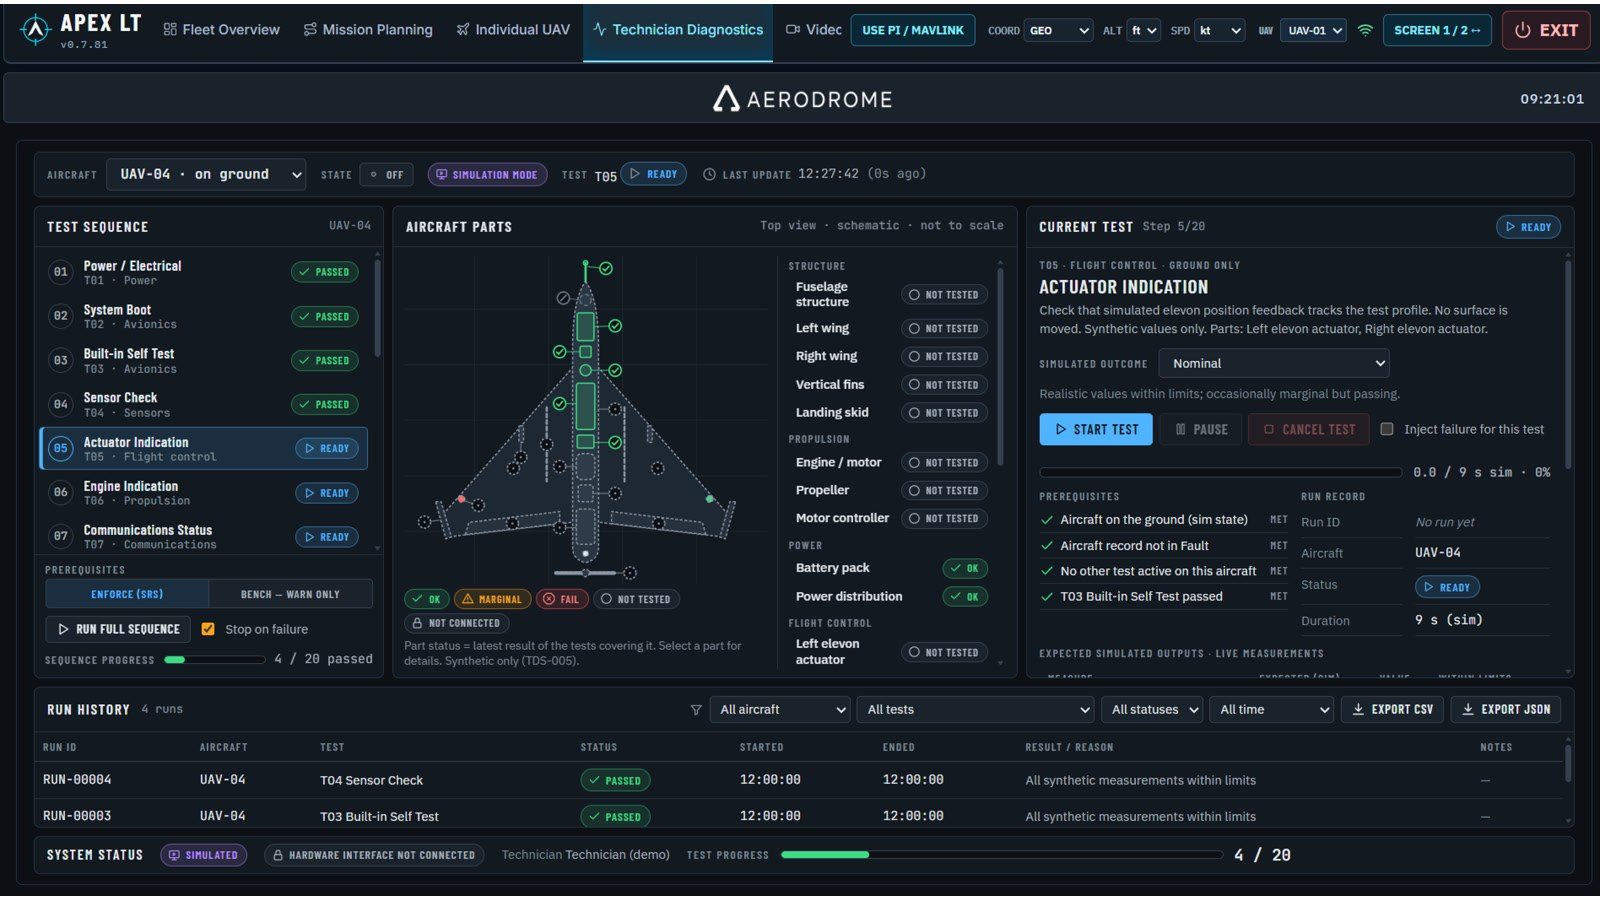
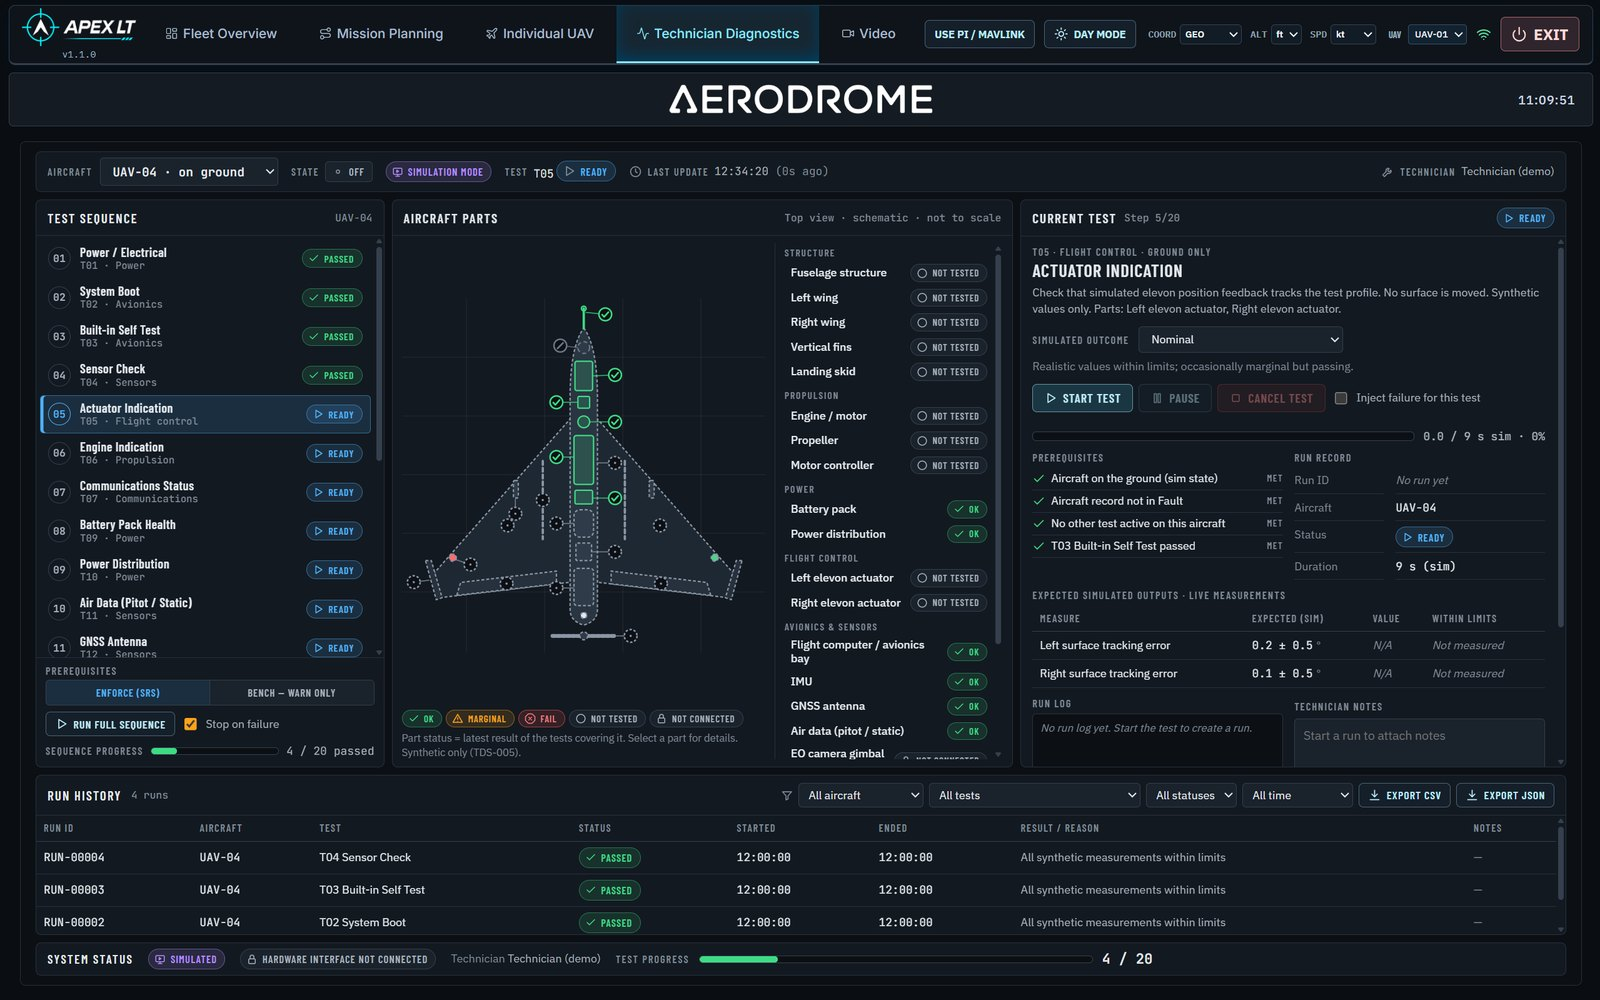
v5: APEX LT workspace pictures replaced with the new screenshots (v1.1.0)
Claude-Session: https://claude.ai/code/session_019uc6bmk95UV7k7Vn7GUmwr

diff --git a/v5/apex-lt/index.html b/v5/apex-lt/index.html
@@ -20,7 +20,7 @@
 <link rel="preload" href="../assets/fonts/chakra-petch-latin-700-normal.woff2" as="font" type="font/woff2" crossorigin>
 <link rel="stylesheet" href="../assets/site.css?v=20261124r">
 <script src="../assets/early.js?v=20261124r"></script>
-<script type="application/ld+json">{"@context": "https://schema.org", "@type": "SoftwareApplication", "name": "APEX LT", "applicationCategory": "Fleet and mission management", "operatingSystem": "Ground station", "description": "APEX LT is the ground platform for Phoenix fleets: fleet overview, mission planning, a single-aircraft view and technician diagnostics in one interface.", "image": "https://aerodrome-group.com/assets/apex-fleet-overview.jpg", "url": "https://aerodrome-group.com/apex-lt/", "publisher": {"@type": "Organization", "name": "Aerodrome Group", "url": "https://aerodrome-group.com/"}}</script>
+<script type="application/ld+json">{"@context": "https://schema.org", "@type": "SoftwareApplication", "name": "APEX LT", "applicationCategory": "Fleet and mission management", "operatingSystem": "Ground station", "description": "APEX LT is the ground platform for Phoenix fleets: fleet overview, mission planning, a single-aircraft view and technician diagnostics in one interface.", "image": "https://aerodrome-group.com/assets/apex-fleet-overview.jpg?v=2", "url": "https://aerodrome-group.com/apex-lt/", "publisher": {"@type": "Organization", "name": "Aerodrome Group", "url": "https://aerodrome-group.com/"}}</script>
 <script type="application/ld+json">{"@context": "https://schema.org", "@type": "BreadcrumbList", "itemListElement": [{"@type": "ListItem", "position": 1, "name": "Home", "item": "https://aerodrome-group.com/"}, {"@type": "ListItem", "position": 2, "name": "APEX LT", "item": "https://aerodrome-group.com/apex-lt/"}]}</script>
 </head>
 <body>
@@ -106,19 +106,19 @@
     </div>
     <div class="apex-rows cards">
       <div class="apex-row">
-        <div class="shot"><img src="../assets/apex-fleet-overview.jpg" alt="APEX LT fleet overview screen: aircraft list, a map with aircraft positions, and details of the selected aircraft" width="1600" height="900" loading="lazy" decoding="async"></div>
+        <div class="shot"><img src="../assets/apex-fleet-overview.jpg?v=2" alt="APEX LT fleet overview screen: aircraft list, a map with aircraft positions, and details of the selected aircraft" width="1600" height="1000" loading="lazy" decoding="async"></div>
         <div class="pt"><p class="eyebrow" style="color:var(--camel)">Operators</p><h3 style="margin-top:12px">Fleet overview</h3><ul class="bullets" style="margin-top:16px"><li>Multi-aircraft fleet overview in a single interface</li><li>Map-based aircraft visualisation</li><li>Centralised status and readiness for every aircraft</li></ul></div>
       </div>
       <div class="apex-row flip">
-        <div class="shot"><img src="../assets/apex-mission-planning.jpg" alt="APEX LT mission planning screen: workflow steps, a route with waypoints on a map, and a waypoint table" width="1600" height="900" loading="lazy" decoding="async"></div>
+        <div class="shot"><img src="../assets/apex-mission-planning.jpg?v=2" alt="APEX LT mission planning screen: workflow steps, a route with waypoints on a map, and a waypoint table" width="1600" height="1000" loading="lazy" decoding="async"></div>
         <div class="pt"><p class="eyebrow" style="color:var(--camel)">Planners</p><h3 style="margin-top:12px">Mission planning</h3><ul class="bullets" style="margin-top:16px"><li>Structured mission-planning workflow, step by step</li><li>Route and waypoint visualisation on the map</li><li>Plan review and validation workflow</li></ul></div>
       </div>
       <div class="apex-row">
-        <div class="shot"><img src="../assets/apex-individual-uav.jpg" alt="APEX LT individual UAV screen: one aircraft with its route and system readiness steps" width="1600" height="900" loading="lazy" decoding="async"></div>
+        <div class="shot"><img src="../assets/apex-individual-uav.jpg?v=2" alt="APEX LT individual UAV screen: one aircraft with its route and system readiness steps" width="1600" height="1000" loading="lazy" decoding="async"></div>
         <div class="pt"><p class="eyebrow" style="color:var(--camel)">Operators</p><h3 style="margin-top:12px">Individual UAV</h3><ul class="bullets" style="margin-top:16px"><li>One aircraft in focus: route, state and system readiness</li><li>System readiness shown step by step</li></ul></div>
       </div>
       <div class="apex-row flip">
-        <div class="shot"><img src="../assets/apex-diagnostics.jpg" alt="APEX LT technician diagnostics screen: test sequence, aircraft parts diagram, current test and run history" width="1600" height="900" loading="lazy" decoding="async"></div>
+        <div class="shot"><img src="../assets/apex-diagnostics.jpg?v=2" alt="APEX LT technician diagnostics screen: test sequence, aircraft parts diagram, current test and run history" width="1600" height="1000" loading="lazy" decoding="async"></div>
         <div class="pt"><p class="eyebrow" style="color:var(--camel)">Technicians</p><h3 style="margin-top:12px">Technician diagnostics</h3><ul class="bullets" style="margin-top:16px"><li>Structured diagnostic workflows and test sequences</li><li>Part-by-part system-health overview</li><li>Test-result records and run history</li></ul></div>
       </div>
     </div>

diff --git a/v5/index.html b/v5/index.html
@@ -137,7 +137,7 @@
         <div class="body"><p class="mono" style="color:var(--camel)">Jet-powered</p><h3>Phoenix TAP-X</h3><p class="muted">Jet-powered precision strike, with the full Phoenix feature set.</p><span class="more">Explore <svg class="go" width="16" height="16" viewBox="0 0 16 16" aria-hidden="true"><path d="M3 8h10M9 4l4 4-4 4" fill="none" stroke="currentColor" stroke-width="1.5"></path></svg></span></div>
       </a>
       <a class="media-card" href="apex-lt/">
-        <div class="reveal" style="aspect-ratio:4/3;--r:220px"><img src="assets/apex-fleet-overview.jpg" alt="APEX LT fleet overview screen" style="object-position:50% 50%" width="1600" height="900" loading="lazy" decoding="async"><div class="veil"></div></div>
+        <div class="reveal" style="aspect-ratio:4/3;--r:220px"><img src="assets/apex-fleet-overview.jpg?v=2" alt="APEX LT fleet overview screen" style="object-position:50% 50%" width="1600" height="1000" loading="lazy" decoding="async"><div class="veil"></div></div>
         <div class="body"><p class="mono" style="color:var(--camel)">Ground platform</p><h3>APEX LT</h3><p class="muted">One platform. Complete fleet visibility.</p><span class="more">Explore <svg class="go" width="16" height="16" viewBox="0 0 16 16" aria-hidden="true"><path d="M3 8h10M9 4l4 4-4 4" fill="none" stroke="currentColor" stroke-width="1.5"></path></svg></span></div>
       </a>
       <a class="media-card" href="aerial-services/">
